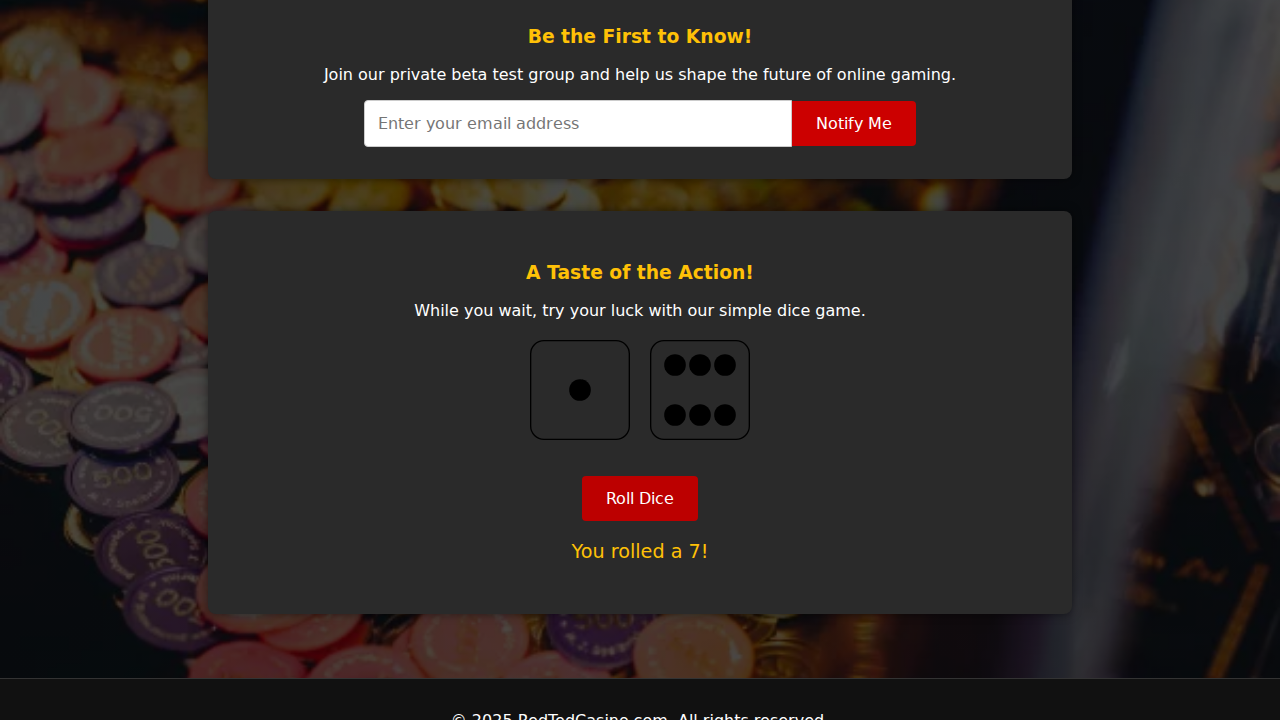
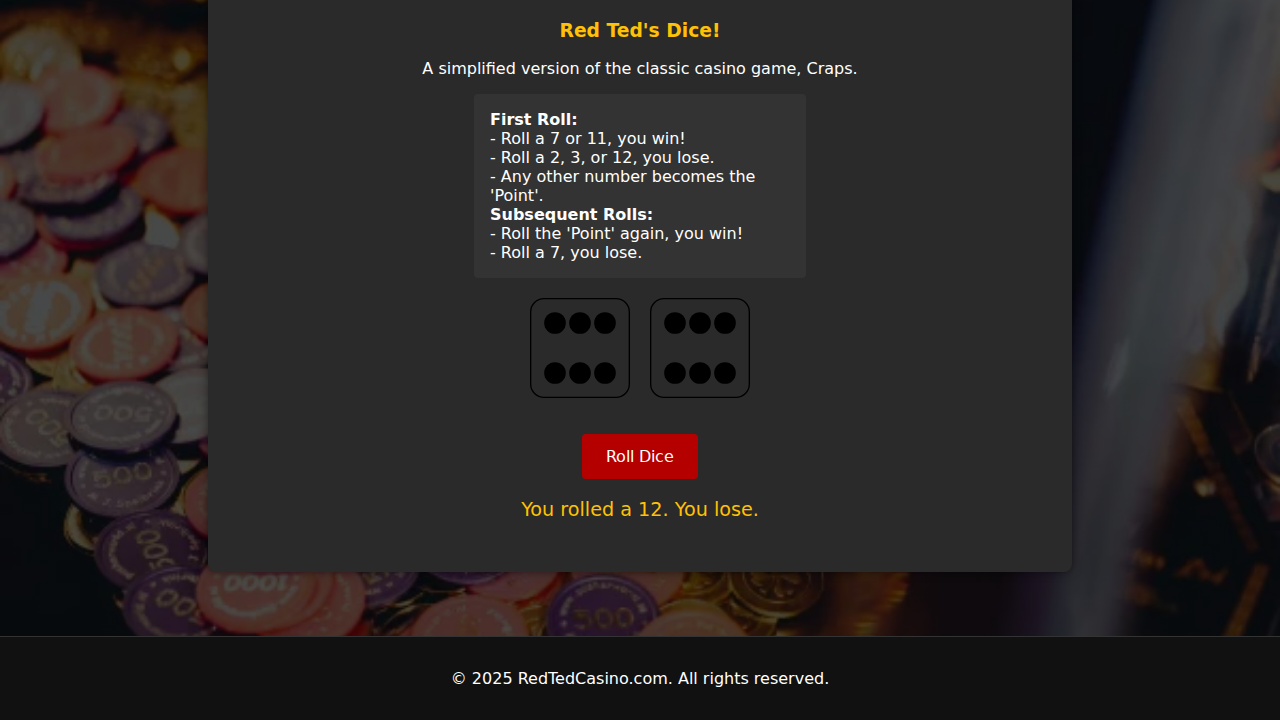
feat: Create "Coming Soon" landing page with "Red Ted's Dice" game
This commit introduces the final version of the RedTedCasino.com "Coming Soon" landing page, featuring a new dice game.

The page includes:
- A professional and visually appealing design with a casino-themed background.
- A "Coming Soon" message announcing the grand opening.
- A signup form for users to join a pre-launch beta test group.
- "Red Ted's Dice," a simplified version of the classic casino game, Craps, for visitor entertainment.

The implementation consists of three files:
- `index.html`: The main structure of the page, including instructions for the new game.
- `style.css`: Styling for the page, including a responsive layout and styles for the game's UI.
- `script.js`: Functionality for the signup form and the complete logic for the "Red Ted's Dice" game.

diff --git a/script.js b/script.js
@@ -15,6 +15,9 @@ document.addEventListener('DOMContentLoaded', function() {
         'https://upload.wikimedia.org/wikipedia/commons/2/26/Dice-6-b.svg'
     ];
 
+    let point = 0;
+    let isFirstRoll = true;
+
     if (signupForm) {
         signupForm.addEventListener('submit', function(event) {
             event.preventDefault();
@@ -22,7 +25,6 @@ document.addEventListener('DOMContentLoaded', function() {
             const email = emailInput.value;
 
             if (email) {
-                // Replace form with a thank you message
                 signupSection.innerHTML = '<h3>Thank You!</h3><p>You have been added to our mailing list. We will notify you when we launch!</p>';
             }
         });
@@ -37,7 +39,34 @@ document.addEventListener('DOMContentLoaded', function() {
             dice1.src = diceImages[roll1];
             dice2.src = diceImages[roll2];
 
-            diceResult.textContent = `You rolled a ${total}!`;
+            if (isFirstRoll) {
+                if (total === 7 || total === 11) {
+                    diceResult.textContent = `You rolled a ${total}. You win!`;
+                    resetGame();
+                } else if (total === 2 || total === 3 || total === 12) {
+                    diceResult.textContent = `You rolled a ${total}. You lose.`;
+                    resetGame();
+                } else {
+                    point = total;
+                    diceResult.textContent = `You rolled a ${total}. That's the Point! Roll again.`;
+                    isFirstRoll = false;
+                }
+            } else {
+                if (total === point) {
+                    diceResult.textContent = `You rolled a ${total}. You win!`;
+                    resetGame();
+                } else if (total === 7) {
+                    diceResult.textContent = `You rolled a 7. You lose.`;
+                    resetGame();
+                } else {
+                    diceResult.textContent = `You rolled a ${total}. Roll again.`;
+                }
+            }
         });
+    }
+
+    function resetGame() {
+        point = 0;
+        isFirstRoll = true;
     }
 });

diff --git a/index.html b/index.html
@@ -25,14 +25,23 @@
             </form>
         </section>
         <section id="dice-game">
-            <h3>A Taste of the Action!</h3>
-            <p>While you wait, try your luck with our simple dice game.</p>
+            <h3>Red Ted's Dice!</h3>
+            <p>A simplified version of the classic casino game, Craps.</p>
+            <p class="instructions">
+                <strong>First Roll:</strong><br>
+                - Roll a 7 or 11, you win!<br>
+                - Roll a 2, 3, or 12, you lose.<br>
+                - Any other number becomes the 'Point'.<br>
+                <strong>Subsequent Rolls:</strong><br>
+                - Roll the 'Point' again, you win!<br>
+                - Roll a 7, you lose.
+            </p>
             <div id="dice-container">
-                <img id="dice1" class="dice" src="https://upload.wikimedia.org/wikipedia/commons/thumb/1/1b/Dice-1-b.svg/120px-Dice-1-b.svg.png" alt="Dice 1">
-                <img id="dice2" class="dice" src="https://upload.wikimedia.org/wikipedia/commons/thumb/1/1b/Dice-1-b.svg/120px-Dice-1-b.svg.png" alt="Dice 2">
+                <img id="dice1" class="dice" src="https://upload.wikimedia.org/wikipedia/commons/1/1b/Dice-1-b.svg" alt="Dice 1">
+                <img id="dice2" class="dice" src="https://upload.wikimedia.org/wikipedia/commons/1/1b/Dice-1-b.svg" alt="Dice 2">
             </div>
             <button id="roll-button" type="button">Roll Dice</button>
-            <p id="dice-result"></p>
+            <p id="dice-result">Let's play! Click "Roll Dice" to start.</p>
         </section>
     </main>
     <footer>

diff --git a/style.css b/style.css
@@ -115,3 +115,12 @@ footer {
     margin-top: 1em;
     color: #ffc107;
 }
+
+.instructions {
+    text-align: left;
+    max-width: 300px;
+    margin: 1em auto;
+    background-color: #333;
+    padding: 1em;
+    border-radius: 4px;
+}

diff --git a/jules-scratch/verification/verify_red_teds_dice.py b/jules-scratch/verification/verify_red_teds_dice.py
@@ -1,0 +1,31 @@
+import asyncio
+from playwright.async_api import async_playwright
+import os
+
+async def main():
+    async with async_playwright() as p:
+        browser = await p.chromium.launch(headless=True)
+        page = await browser.new_page()
+
+        # Get the absolute path to the index.html file
+        file_path = os.path.abspath('index.html')
+
+        # Go to the local HTML file
+        await page.goto(f'file://{file_path}')
+
+        # Wait for the page to load completely
+        await page.wait_for_load_state('networkidle')
+
+        # Click the "Roll Dice" button
+        await page.click('#roll-button')
+
+        # Wait for the result to be displayed
+        await page.wait_for_selector('#dice-result:not(:empty)')
+
+        # Take a screenshot
+        await page.screenshot(path='jules-scratch/verification/verification.png')
+
+        await browser.close()
+
+if __name__ == '__main__':
+    asyncio.run(main())
